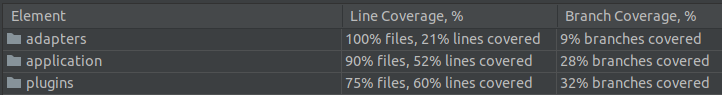
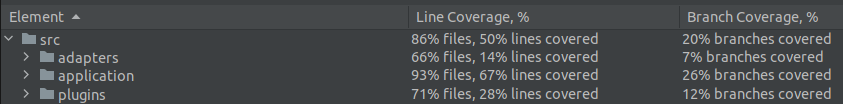
Updates Unit Test chapter

diff --git a/LaTeX/Inhalt/04_Inhalt/unit_tests.tex b/LaTeX/Inhalt/04_Inhalt/unit_tests.tex
@@ -28,7 +28,7 @@ Der Testcode von Morik ist professionell geschrieben. Dies bedeutet, dass er lei
 \end{figure}
 
 Wie zuvor bereits genannt, ermöglicht die Code Coverage eine Einschätzung wie ''gründlich'' die Tests tatsächlich sind, indem gemessen wird wie viel Code beim Testen durchlaufen wird im Vergleich zu wie viel Code insgesamt in der kompletten Applikation durchlaufen werden kann. Hierbei werden zwei Metriken besonders häufig verwendet. Zum einen gibt es die Line Coverage, die die ausgeführten Codezeilen zählt, während es zum anderen die Branch Coverage gibt. Diese zählt die ausgeführten Verzweigungsmöglichkeiten. Dabei ist letztere Metrik aussagekräftiger für die tatsächliche ''Gründlichkeit'' der Tests, während die Line Coverage allerdings leichter zu messen ist. Dass die Branch Coverage aussagekräftiger ist, kommt vor Allem daher wie einfach es ist die Line Coverage zu erhöhen. Beispielsweise könnte eine Funktion, welche tatsächlich getestet wird, so umgeschrieben werden, dass sie mehr Zeilen Code einnimmt. Dadurch steigt die Line Coverage, da der getestete Code relativ gesehen nun einen größeren Anteil der gesamten Codebasis einnimmt als zuvor. Die Branch Coverage jedoch steigt nicht, da sich nichts daran geändert hat welche Funktionen aufgerufen werden oder welche Verzweigungen innerhalb der Funktion tatsächlich durchlaufen werden.\\
-Wie in \autoref{fig:coverage} gezeigt, erreicht Morik mit den Tests eine Line Coverage von 44.3\%, während eine Branch Coverage von nur 23\% erreicht wird. Dies zeigt erneut, dass es einfacher ist eine hohe Line Coverage zu erreichen, als eine hohe Branch Coverage. \todo{Zahlen und screenshot anpassen} Ermittelt werden diese Zahlen durch das Ausführen der Tests mit Coverage mithilfe von JetBrains IDE CLion.
+Wie in \autoref{fig:coverage} gezeigt, erreicht Morik mit den Tests eine Line Coverage von 50\%, während eine Branch Coverage von nur 20\% erreicht wird. Dies zeigt erneut, dass es einfacher ist eine hohe Line Coverage zu erreichen, als eine hohe Branch Coverage. Ermittelt wurden diese Zahlen durch das Ausführen der Tests mit Coverage mithilfe von JetBrains IDE CLion.
 
 \section{Mocks}
 Einige der Klassen von Morik sind abhängig von anderen Klassen, um richtig funktionieren zu können. Um diese Klassen jedoch trotzdem testen zu können, ohne vorher alle Abhängigkeiten konstruieren zu müssen, werden an ausgewählten Stellen Mock-Objekte eingesetzt. Für das Erzeugen der Mock-Objekte wird \textit{gmock} verwendet, das in GoogleTest enthalten ist. So kann in der Klasse \href{https://github.com/moorts/Morik/blob/main/src/tests/application/AbstractDatabaseInterfaceMock.h}{\textit{AbstractDatabaseInterfaceMock}} bspw. das Mocken eines AbstractDatabaseInterface beobachtet werden, sodass in \href{https://github.com/moorts/Morik/blob/main/src/tests/application/repository_tests.cpp}{\textit{repository\_tests}} die EntryRepository getestet werden kann, die die Übergabe eines AbstractDatabaseInterface im Konstruktor erwartet. Ein weiteres Mock-Objekt ist das \href{https://github.com/moorts/Morik/blob/main/src/tests/adapters/database/AbstractSqlDatabaseMock.h}{\textit{AbstractSqlDatabaseMock}}, das eine AbstractSqlDatabase mockt. Dies wird verwendet, um in \href{https://github.com/moorts/Morik/blob/main/src/tests/adapters/database/databaseInterface_tests.cpp}{\textit{databaseInterface\_tests}} den DatabaseInterface-Adapter testen zu können, der wiederum die Übergabe einer AbstractSqlDatabase im Konstruktor erwartet.

diff --git a/src/tests/application/password_generator_tests.cpp b/src/tests/application/password_generator_tests.cpp
@@ -7,5 +7,5 @@ TEST(PasswordGenerator, DDDTests) {
     MersenneTwister mt(666);
     DDD::Services::PasswordGenerator passwordGenerator(&mt);
 
-    EXPECT_EQ(passwordGenerator.getRandomPassword().getString(), "§j\\t!l%(,EbwMxezjQUv");
+    EXPECT_EQ(passwordGenerator.getRandomPassword(20).getString(), "§j\\t!l%(,EbwMxezjQUv");
 }
